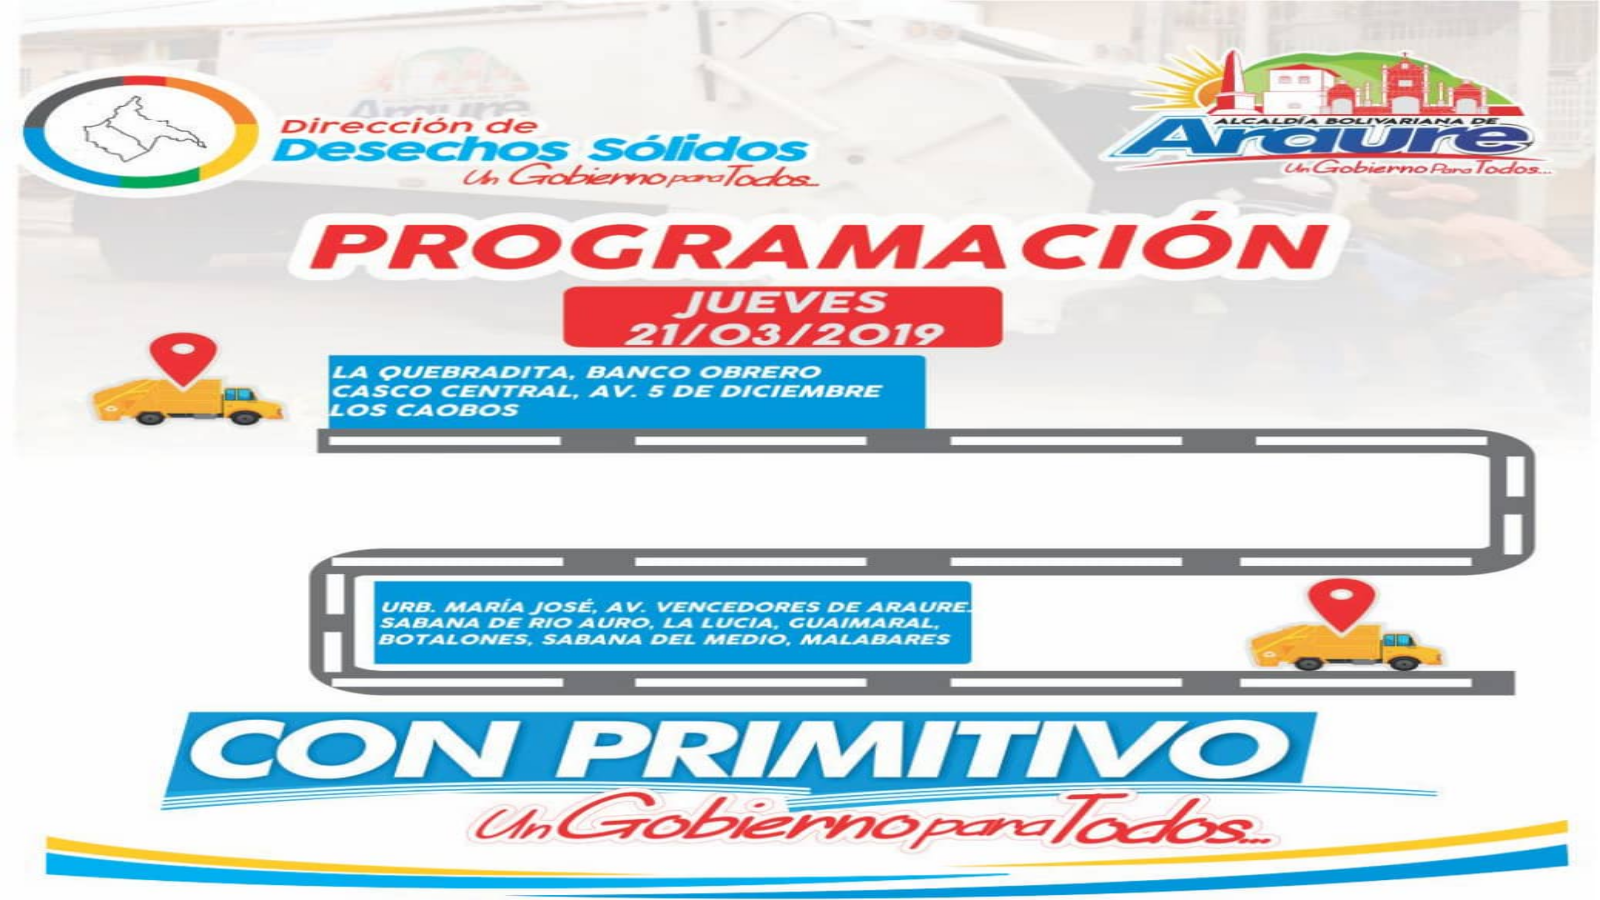
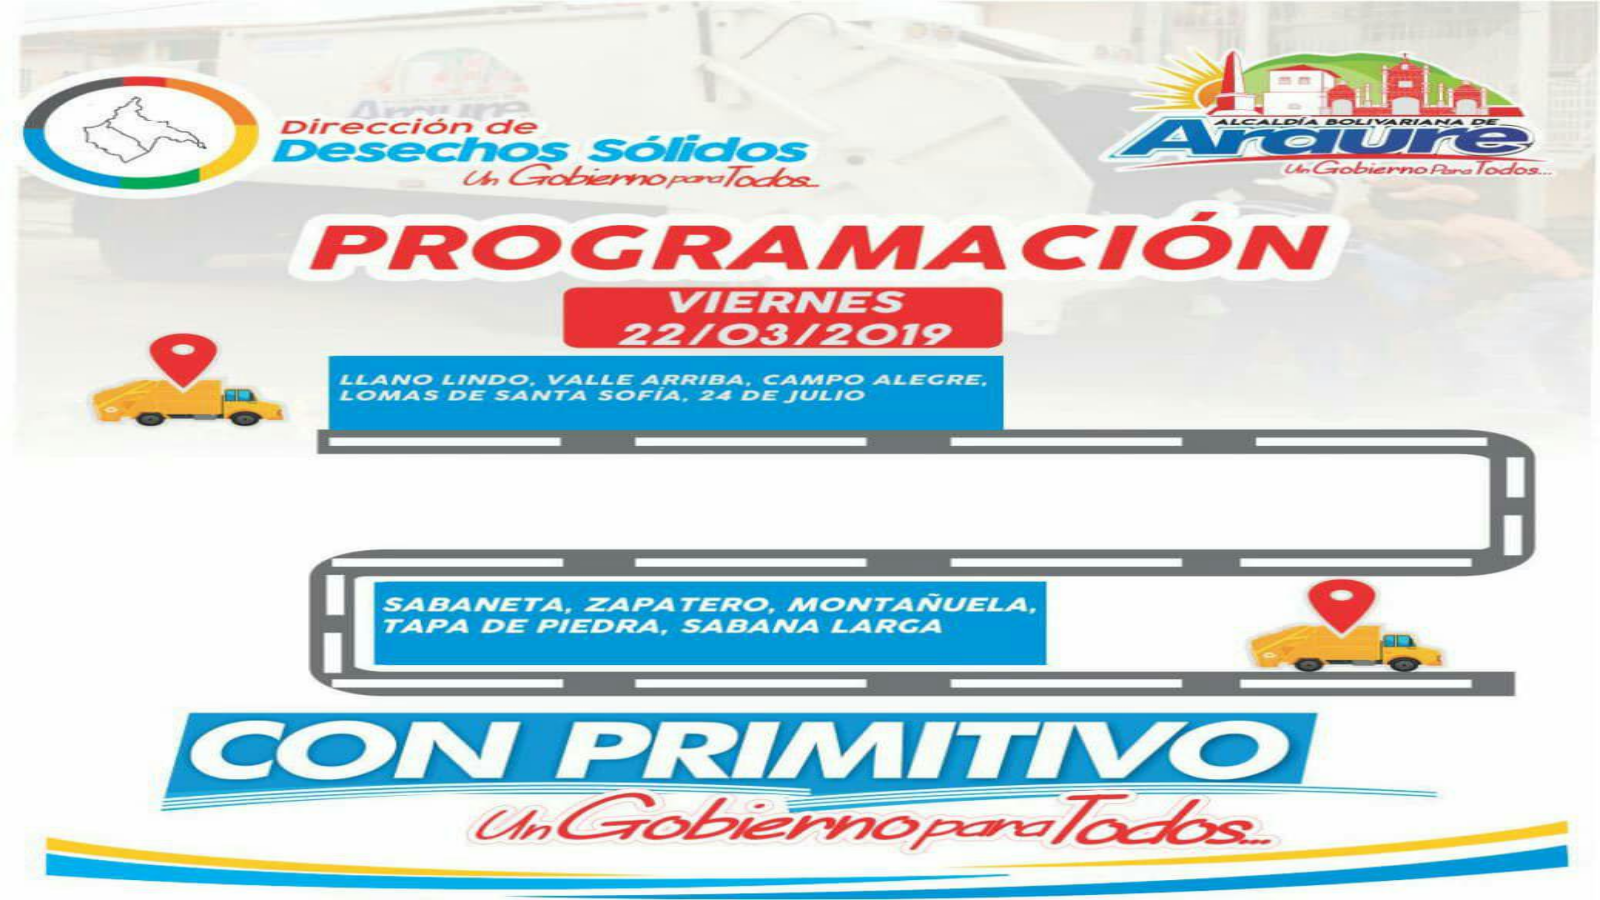
aviso de aseo 22-03

diff --git a/html/index.html b/html/index.html
@@ -241,6 +241,13 @@
                                     </div> 
                                     </a>
                                 </li> 
+                                 <li>  <!-- Slide 2 -->
+                                 <img src="./img/Avisos_importantes/2019/aseo.png">
+                                    <div class="meta"> 
+                                     <!--  <h1>Lorem ipsum dolor sit amet, consectetur.</h1>
+                                        <h2>Lorem ipsum dolor sit.</h2>-->
+                                 </div>
+                                </li>
                                 <li>  <!-- Slide 2 -->
                                  <img src="./img/Avisos_importantes/2019/funda1.png">
                                     <div class="meta"> 
@@ -256,7 +263,7 @@
                                     </div>
                                 </li> 
                                <li> <!-- Slide 4 -->
-                                 <img src="./img/Avisos_importantes/2019/funda.png">
+                                 <img src="./img/Avisos_importantes/2019/funda3.png">
                                     <div class="meta">
                                       <!---  <h1>Lorem ipsum dolor sit amet, consectetur.</h1>
                                         <h2>Lorem ipsum dolor sit.</h2> -->
